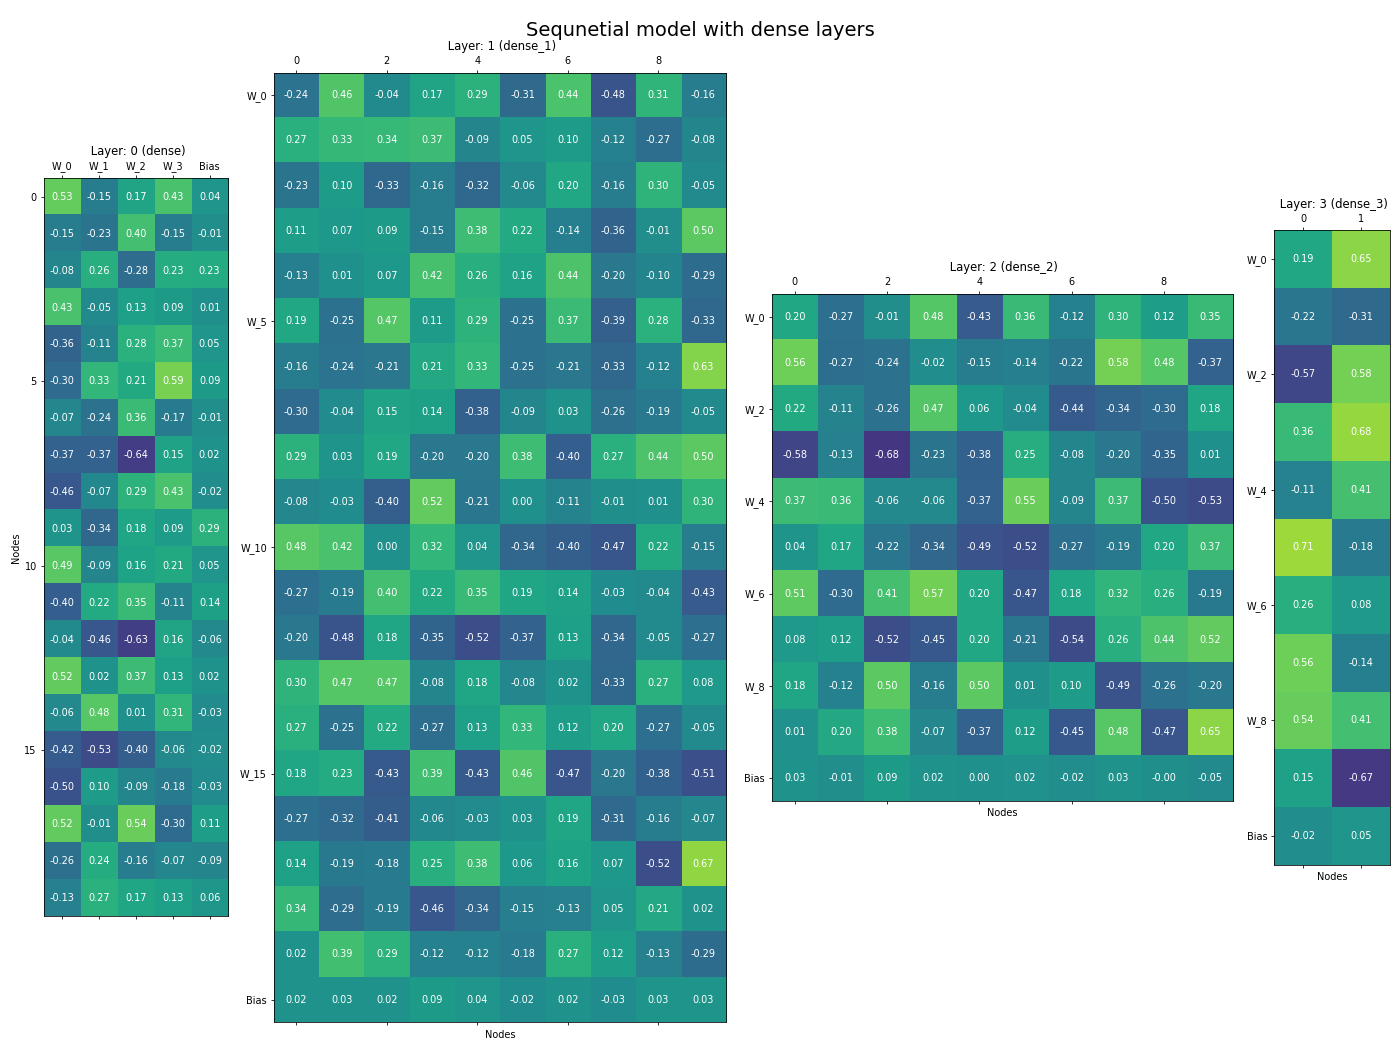
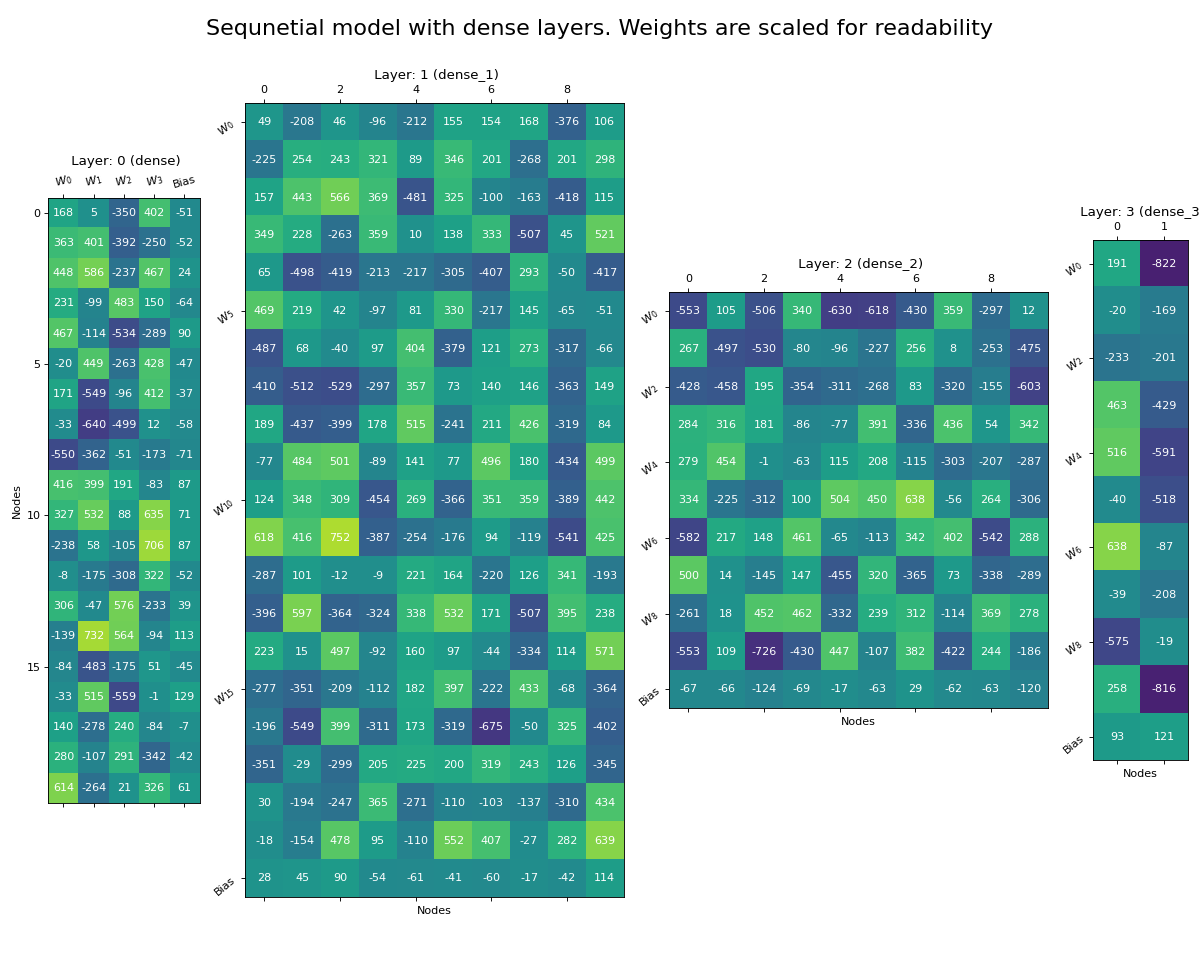
Add weight scaling for readability.

diff --git a/yasiu_vis/ykeras.py b/yasiu_vis/ykeras.py
@@ -9,14 +9,15 @@ def plotLayersWeights(
         numFmt=">4.2f",
         figsize=(40, 30), dpi=70,
         drawVertical=False, separateFirstLast=True,
-        normalizeValues=False,
+        normalizeColors=False,
+        scaleWeights=None,
 ):
     """
     Draws layers weights onto matplotlib figure.
 
     innerCanvas: rows/columns for hidden layers.
 
-    numFmt: number formatter
+    numFmt: number formatter (omit when using `scaleFractions`)
 
     figsize: tuple of ints, passed to pyplot.figure(figsize=figsize)
 
@@ -26,7 +27,9 @@ def plotLayersWeights(
 
     separateFirstLast: draw first last layer independent from hidden layers
 
-    normalizeValues: Use normalization for color map per ax <min ,max>
+    normalizeColors: Plot each layer in range of indiviudal values <min ,max>
+
+    scaleWeights`: int/float: multiply weights and draw rounded integers instad. Use 100 or 1000. (Less clutter on plot)
 
     """
     if not isinstance(layers, (list,)):
@@ -112,7 +115,7 @@ def plotLayersWeights(
             ax_last = fig.add_subplot(grid[0, -1])
         all_axes.append(ax_last)
 
-    if normalizeValues:
+    if normalizeColors:
         "Allow matplotlib to normalize values"
         my_norm = None
     else:
@@ -153,22 +156,34 @@ def plotLayersWeights(
 
         ax.matshow(combined_visualization, cmap="viridis", norm=my_norm)
 
+        if type(scaleWeights) in [int, float]:
+            "Vectorized scaling"
+            combined_visualization = (
+                combined_visualization*scaleWeights).round().astype(int)
+
         for (i, j), val in _np.ndenumerate(combined_visualization):
-            ax.text(j, i, f"{val:{numFmt}}", ha='center',
-                    va='center', color='white', fontsize=10)
+            if type(scaleWeights) in [int, float]:
+                numText = str(val)
+            else:
+                numText = f"{val:{numFmt}}"
+
+            ax.text(
+                j, i, numText, ha='center',
+                va='center', color='white', fontsize=10
+            )
 
         if is_bias_onRight:
             ticks = ax.get_xticks()[1:-1]
-            tick_strings = [f"W_{int(val)}" for val in ticks]
+            tick_strings = [f"$W_{'{'}{int(val)}{'}'}$" for val in ticks]
             tick_strings[-1] = "Bias"
-            ax.set_xticks(ticks, tick_strings)
+            ax.set_xticks(ticks, tick_strings, rotation=15)
             ax.set_ylabel("Nodes")
 
         else:
             ticks = ax.get_yticks()[1:-1]
-            tick_strings = [f"W_{int(val)}" for val in ticks]
+            tick_strings = [f"$W_{'{'}{int(val)}{'}'}$" for val in ticks]
             tick_strings[-1] = "Bias"
-            ax.set_yticks(ticks, tick_strings)
+            ax.set_yticks(ticks, tick_strings, rotation=40)
             ax.set_xlabel("Nodes")
 
         ax.set_title(f" Layer: {lind} ({lay.name})")
@@ -189,6 +204,7 @@ if __name__ == "__main__":
     inputSize = 4
 
     import keras
+    import os
 
     model = keras.models.Sequential()
     model.add(keras.Input(shape=(inputSize,)))
@@ -206,10 +222,17 @@ if __name__ == "__main__":
     X = _np.random.random((1000, 4))
     Y = X[:, :2] + X[:, 2:]
 
-    model.fit(X, Y, epochs=100)
+    model.fit(X, Y, epochs=20)
 
-    plotLayersWeights(model.layers, innerCanvas=1, figsize=(20, 15), dpi=70)
-    _plt.suptitle("Sequnetial model with dense layers", size=20)
+    plotLayersWeights(
+        model.layers, innerCanvas=1,
+        figsize=(15, 12), dpi=80, scaleWeights=1000
+    )
+
+    _plt.suptitle(
+        "Sequnetial model with dense layers. Weights are scaled for readability", size=20)
     _plt.subplots_adjust(wspace=0.12, top=0.93)
     _plt.tight_layout()
-    _plt.savefig("temp.png")
+    picPath = os.path.join(os.path.dirname(__file__),
+                           "..", "pics", "kerasLayers.png")
+    _plt.savefig(f"{picPath}")

diff --git a/yasiu_vis/__init__.py b/yasiu_vis/__init__.py
@@ -1,4 +1,4 @@
-VERSION = 0, 4, 1
+VERSION = 0, 5, 0
 __version__ = VERSION
 
 __all__ = ['pandas', 'keras']

diff --git a/README.md b/README.md
@@ -8,8 +8,8 @@ High level functions, to quickly visualise data frames.
 pip install yasiu-vis
 ```
 # Package Contains
-- ykeras : Visualisation made for keras.Model
-- ypandas: Visualisation made for pandas.DataFrame
+- **ykeras**: Visualisation made for keras.Model
+- **ypandas**: Visualisation made for pandas.DataFrame
 
 # Examples
 
@@ -30,7 +30,7 @@ summary_plot(
 ```
 ![Summary Plot](./pics/summaryPlot.png)
 
-## Keras - Nerual Network layers
+## Keras - Ploting Neural Network layers
 ```py
 from yasiu_vis.ykeras import plotLayersWeights
 from matpotlib import pyplot as plt
@@ -38,7 +38,7 @@ import keras
 
 model : keras.models.Sequential # Keras compiled model
 
-plotLayersWeights(model.layers, innerCanvas=1, figsize=(20, 15), dpi=70)
+plotLayersWeights(model.layers, innerCanvas=1, figsize=(20, 15), dpi=70, scaleWeights=1000)
 plt.subplots_adjuts(wspace=0.1, top=0.95)
 # Adjust values per model and plot size
 plt.tight_layout()
